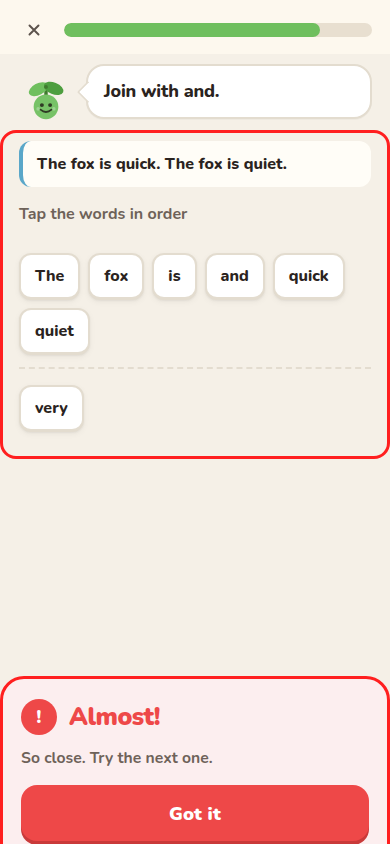
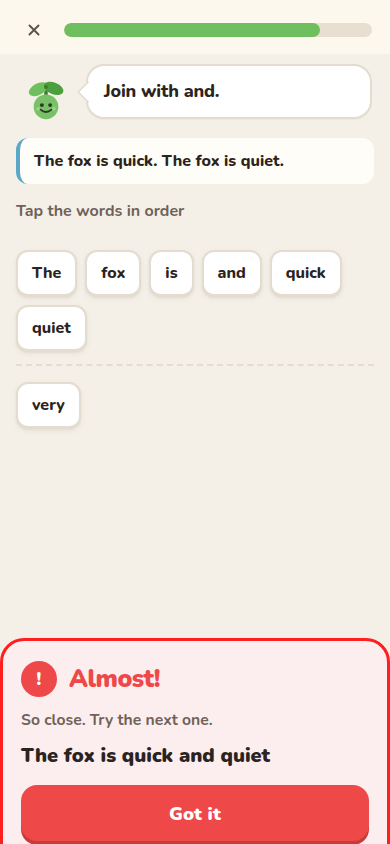
fix: show the right answer on the Almost sheet
Under So close, Almost prints the correct word or sentence in the same bold ink as Wrong. Grading is unchanged.

diff --git a/src/screens/ScanQuizScreen.tsx b/src/screens/ScanQuizScreen.tsx
@@ -312,10 +312,9 @@ export default function ScanQuizScreen({ parts, onExit, onComplete, markAnswers 
               <span className="lesson__sheet-check" aria-hidden="true">{grade === 'correct' ? '✓' : '!'}</span>
               <h2 className="lesson__sheet-title">{sheetTitle}</h2>
             </div>
-            {grade === 'wrong' ? (
-              <p className="lesson__sheet-answer">{sheetBody}</p>
-            ) : (
-              <p className="lesson__sheet-body">{sheetBody}</p>
+            {grade !== 'wrong' && <p className="lesson__sheet-body">{sheetBody}</p>}
+            {(grade === 'wrong' || grade === 'almost') && (
+              <p className="lesson__sheet-answer">{answerText(q)}</p>
             )}
             <button
               type="button"
